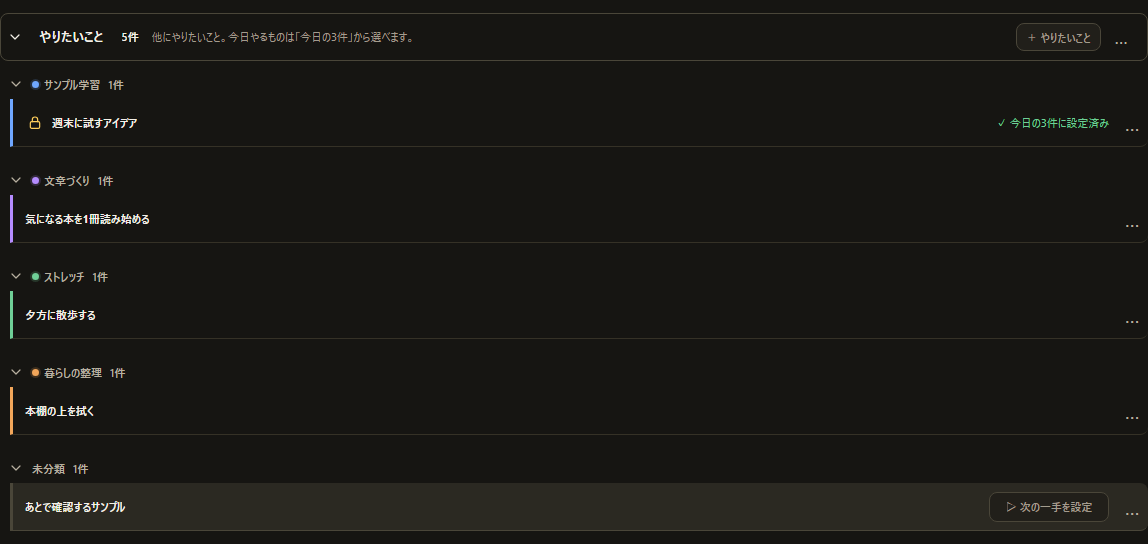
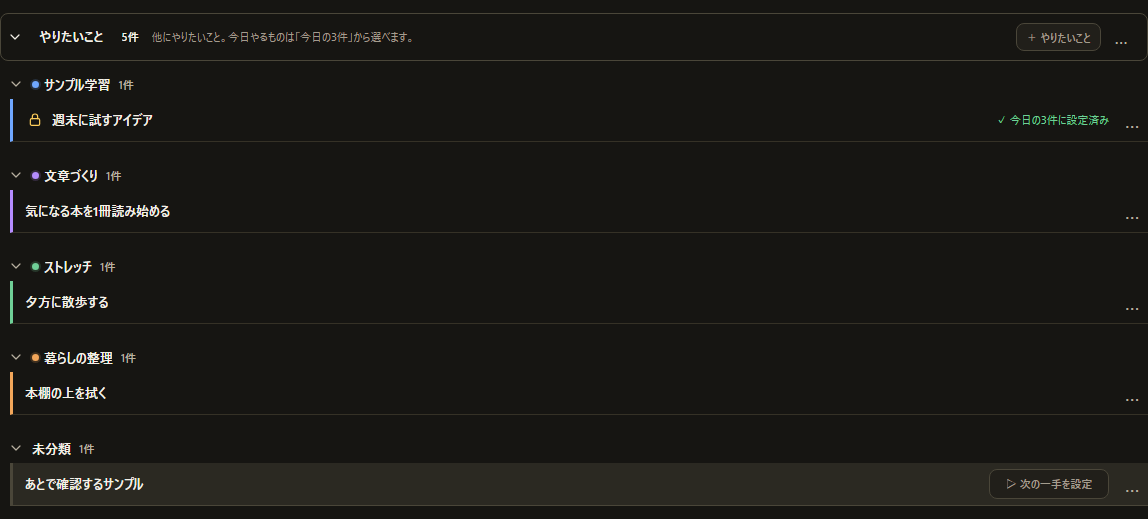
fix: やりたいことの見出しと項目の大きさをそろえる（P97-10追記）
- 見出しの名前を body・600・--text、件数を meta・--muted に

- 本文を body・500、行の最小40px・角0に

- 標準・大・特大のテストと基準画像、仕様書、報告を更新

diff --git a/tests/visual/phase97-wishlist-layout.spec.ts b/tests/visual/phase97-wishlist-layout.spec.ts
@@ -12,7 +12,12 @@ type Control = {
   currentConfig: () => AppConfig;
 };
 
-async function prepare(page: Page, fixture = createFullTodayFixture()) {
+async function prepare(
+  page: Page,
+  fixture = createFullTodayFixture(),
+  size: "standard" | "large" | "xlarge" = "standard",
+) {
+  fixture.config.settings.mainDisplaySize = size;
   await page.clock.install({ time: new Date(FIXTURE_NOW).getTime() });
   await page.setViewportSize({ width: 1440, height: 900 });
   await installTauriMock(page, fixture, "main");
@@ -95,11 +100,48 @@ test("the wishlist section shows the new hierarchy and color lines", async ({ pa
 
   const learningItem = page.locator('[data-inbox-id="sample-weekend"]');
   await expect(learningItem).toHaveCSS("border-left-color", "rgb(112, 167, 255)");
-  await expect(learningItem.locator(".inboxItemText")).toHaveCSS("font-weight", "650");
+  await expect(learningItem).toHaveCSS("border-radius", "0px");
+  await expect(learningItem).toHaveCSS("min-height", "40px");
+  await expect(learningItem.locator(".inboxItemText")).toHaveCSS("font-weight", "500");
 
   const unassignedItem = page.locator('[data-inbox-id="sample-later"]');
   await expect(unassignedItem).toHaveCSS("border-left-color", "rgb(74, 70, 57)");
 });
+
+for (const size of ["standard", "large", "xlarge"] as const) {
+  test(`header names and item text share the body size (${size})`, async ({ page }) => {
+    await prepare(page, createFullTodayFixture(), size);
+    const headerName = page.locator(
+      '[data-wishlist-group="project:sample-learning"] .wishlistGroupHeader .projectIdentityName',
+    );
+    const unassignedName = page.locator(
+      '[data-wishlist-group="unassigned"] .wishlistGroupHeader > strong',
+    );
+    const itemText = page.locator('[data-inbox-id="sample-weekend"] .inboxItemText');
+    const headerRow = page.locator('[data-inbox-id="sample-weekend"]');
+
+    const metrics = async (locator: typeof headerName) =>
+      locator.evaluate((element) => {
+        const style = getComputedStyle(element);
+        return {
+          fontSize: style.fontSize,
+          fontWeight: Number(style.fontWeight),
+          color: style.color,
+        };
+      });
+    const header = await metrics(headerName);
+    const unassigned = await metrics(unassignedName);
+    const item = await metrics(itemText);
+
+    expect(header.fontSize, size).toBe(item.fontSize);
+    expect(unassigned.fontSize, size).toBe(header.fontSize);
+    expect(unassigned.fontWeight, size).toBe(header.fontWeight);
+    expect(unassigned.color, size).toBe(header.color);
+    expect(header.fontWeight, size).toBeGreaterThan(item.fontWeight);
+    await expect(headerRow).toHaveCSS("border-radius", "0px");
+    await expect(headerRow).toHaveCSS("min-height", "40px");
+  });
+}
 
 test("the wishlist section keeps the new layout", async ({ page }) => {
   await prepare(page);

diff --git a/src/styles.css b/src/styles.css
@@ -10541,7 +10541,7 @@ input[type="number"]::-webkit-inner-spin-button {
   border-radius: var(--radius);
   background: transparent;
   color: var(--muted);
-  font-size: var(--dashboard-font-meta);
+  font-size: var(--dashboard-font-body);
   font-weight: 600;
   text-align: left;
   cursor: grab;
@@ -10559,27 +10559,29 @@ input[type="number"]::-webkit-inner-spin-button {
 
 .wishlistGroupHeader .projectIdentity {
   min-width: 0;
-  color: var(--muted);
-  font-size: var(--dashboard-font-meta);
+  color: var(--text);
+  font-size: var(--dashboard-font-body);
   font-weight: 600;
 }
 
 .wishlistGroupHeader > strong {
-  color: var(--muted);
-  font-size: var(--dashboard-font-meta);
+  color: var(--text);
+  font-size: var(--dashboard-font-body);
   font-weight: 600;
 }
 
 .wishlistGroupHeader > span:last-child {
   flex: 0 0 auto;
+  color: var(--muted);
   font-size: var(--dashboard-font-meta);
 }
 
 .wishlistGroup .inboxRow.sourceListRow {
   grid-template-columns: minmax(0, 1fr) auto;
   gap: 8px;
+  min-height: 40px;
   border-left: 3px solid var(--project-color, var(--line));
-  border-radius: 0 var(--radius) var(--radius) 0;
+  border-radius: 0;
   padding-left: 12px;
 }
 
@@ -10592,8 +10594,8 @@ input[type="number"]::-webkit-inner-spin-button {
   align-items: center;
   gap: 5px;
   color: var(--text);
-  font-size: var(--dashboard-font-meta);
-  font-weight: 650;
+  font-size: var(--dashboard-font-body);
+  font-weight: 500;
 }
 
 .sourceLockBadge--wishlist {
@@ -12222,6 +12224,11 @@ button.mainActionButton:is(
 .mainScrollContent:is([data-main-display-size="large"], [data-main-display-size="xlarge"])
   :is(.todayRow, .nextStepRow.sourceListRow, .inboxRow.sourceListRow, .todayActivityRow) {
   min-height: var(--main-row-height);
+}
+
+.mainScrollContent:is([data-main-display-size="large"], [data-main-display-size="xlarge"])
+  .wishlistGroup .inboxRow.sourceListRow {
+  min-height: 40px;
 }
 
 .mainScrollContent:is([data-main-display-size="large"], [data-main-display-size="xlarge"])

diff --git a/docs/phase9.7/10-wishlist-layout.md b/docs/phase9.7/10-wishlist-layout.md
@@ -14,7 +14,7 @@
 | --- | --- |
 | `src/nextStepWishlist.ts` | `groupWishlistForDisplay()` を追加（「未分類」を最後に並べるだけ。`config.inbox` は変えない）。`reorderWishlistGroups()` で「未分類」をつかめないようにし、後ろへ落としても前に挿入する |
 | `src/App.tsx` | 表示に `groupWishlistForDisplay()` を使う。グループに `data-project-color` と `wishlistGroup--unassigned` を付与。未分類の見出しはドラッグを開始せず、クリックで開閉。未分類へのドロップは前に補正 |
-| `src/styles.css` | 見出しを最小30px・横線なし・`--muted`・600に。項目を10px字下げし、左に3pxのプロジェクト色線（未分類は `--line`）。本文を650に。グループ間を18pxに |
+| `src/styles.css` | 見出しを最小30px・横線なし、名前を `--dashboard-font-body`・600・`--text`、件数を `--dashboard-font-meta`・`--muted` に。項目を10px字下げし、左に3pxのプロジェクト色線（未分類は `--line`）。本文を `--dashboard-font-body`・500、行を40px・角0に。グループ間を18pxに |
 | `docs/spec/current-spec.md` | §12 の「やりたいこと」の見せ方、項目の左線、未分類の最後、グループ間の間隔、D&Dの扱いを更新 |
 | `tests/visual/phase97-wishlist-layout.spec.ts` | 表示順・未分類のD&D・見た目（色線・太さ・横線なし）・十字キーの順・画像の7件 |
 | `tests/visual/phase97-wishlist-layout.spec.ts-snapshots/phase97-wishlist-layout-win32.png` | 変更後の「やりたいこと」の節の基準画像（新規） |
@@ -37,8 +37,8 @@
 
 ### 1. 表のとおりに見た目が変わった。「未分類」が最後に出る
 
-- 見出し: `border-bottom` を外して最小30px、色を `--muted`、太さ600にした。折りたたみ矢印・色の点・名前・件数は残す。
-- 項目: `.inboxList` を10px字下げし、`.inboxRow` の左に3pxの `--project-color` の線を付けた。未分類は `--line`。本文は次の一手のカードと同じ650にした（太字はやめず、次の一手と並べて自然な太さにそろえた）。
+- 見出し: `border-bottom` を外して最小30px、行の色を `--muted` にした。名前（「未分類」も）は `--dashboard-font-body`・600・`--text`、件数は `--dashboard-font-meta`・`--muted` にした。折りたたみ矢印・色の点・名前・件数は残す。
+- 項目: `.inboxList` を10px字下げし、`.inboxRow` の左に3pxの `--project-color` の線を付けた。未分類は `--line`。本文は `--dashboard-font-body`・500 にした。行の最小の高さは40px、角の丸みは0にした。
 - 区切り: 同じグループ内は6pxの間隔と薄い下線、グループ間は18pxの間隔にして線を外した。
 - 「未分類」: `groupWishlistForDisplay()` で常に最後。`config.inbox` の並びは表示では変えない。
 - 状態・操作（「次の一手に設定」「✓ 次の一手に設定済み」「今日の3件」、ロック、「…」）は今までどおり右端。
@@ -63,7 +63,8 @@
 
 - 表示順: `groupWishlistForDisplay()` が未分類を最後にし、`config.inbox` を変えないこと。
 - グループD&D: 未分類をドラッグしても `config` が変わらないこと。未分類より後ろへ落としても、表示で未分類が最後のままであること。
-- 見た目: 見出しの下線が0px、色が `rgb(184, 176, 160)`、太さ600。プロジェクト項目の左線が `rgb(112, 167, 255)`（青）、未分類が `rgb(74, 70, 57)`（`--line`）、本文が650。
+- 見た目: 見出しの下線が0px、名前の色が `rgb(244, 240, 232)`、太さ600。プロジェクト項目の左線が `rgb(112, 167, 255)`（青）、未分類が `rgb(74, 70, 57)`（`--line`）、本文が500。行の `border-radius` が0px、`min-height` が40px。
+- 表示サイズ: 「標準・大・特大」のそれぞれで、見出しの名前と未分類の名前の font-size・font-weight・color が同じで、見出しの font-weight が本文より大きいことを確認した。
 - 画面: 未分類の見出しからドラッグを始めてもゴーストが出ないこと。学習グループを未分類の後ろへ落とすと、表示で未分類が最後のままであること。
 - 十字キー: 未分類の見出しにフォーカスし、Shift+Tab で前のグループへ移り、Tab で未分類へ戻ることを確認した。未分類より後ろにグループが無いことの確認になる。
 - 既存: `phase82-nextstep-wishlist.spec.ts` の18件がすべて成功。DOMのグループ順の期待値だけを表示順に更新した。
@@ -76,7 +77,7 @@
 | `npm run public:check` | 成功（3,652ファイル、0 blockers） |
 | `npm run lint` | 成功（0エラー、0警告） |
 | `npm run build` | 成功 |
-| `npm run test:visual` | 648件成功（2.3分） |
+| `npm run test:visual` | 651件成功（2.4分） |
 | `cargo fmt --check` | 成功 |
 | `cargo check` | 成功 |
 | `cargo clippy --all-targets -- -D warnings` | 成功 |
@@ -87,7 +88,7 @@
 
 | 画像 | 理由 |
 | --- | --- |
-| `tests/visual/phase97-wishlist-layout.spec.ts-snapshots/phase97-wishlist-layout-win32.png` | 「やりたいこと」の節の見た目を変えたため。新規（1,148×544、32,353バイト） |
+| `tests/visual/phase97-wishlist-layout.spec.ts-snapshots/phase97-wishlist-layout-win32.png` | 「やりたいこと」の節の見た目を変えたため。新規（1,148×519、35,259バイト） |
 
 ほかの画面の基準画像は変えていない。`maxDiffPixels: 12` は、CI のわずかな描画差を吸収するため（P97 pre-release と同じ扱い）。
 
@@ -96,7 +97,7 @@
 - 「未分類」を最後にするのは表示だけ。`groupWishlist()` は保存順のまま残し、表示用の `groupWishlistForDisplay()` を別にした。グループD&Dの保存処理は保存順の関数を使うので、表示の並べ替えで `config.inbox` は変わらない。
 - 未分類をドラッグの対象にしないため、未分類の見出しは `pointerdown` でドラッグを開始しない。マウスのクリックで開閉できるように、未分類だけ `click` でも開閉する。
 - 未分類より後ろへ落としたときは、`reorderWishlistGroups()` と `moveWishlistGroup()` の両方で「前に挿入」に補正した。
-- 項目の本文は、次の一手のカードの本文と同じ650にした。見出しは600にして、項目より一段弱くした。
+- 項目の本文は `--dashboard-font-body`・500、見出しの名前は `--dashboard-font-body`・600にして、見出しの方を太くした。
 - プロジェクト色は `resolveProjectColorId(project.id, project.colorId)` で決め、色を指定していないプロジェクトも次の一手のカードと同じ自動色の線になるようにした。
 - グループ間の間隔は18px、グループ内の項目は6pxの間隔と薄い下線にした。1件だけのグループが並んでも、見出しと項目のまとまりが分かる。
 - `phase82-nextstep-wishlist.spec.ts` のDOM順の期待値は、表示順が変わったための更新。折りたたみ・D&D・メニューなどの期待値は変えていない。
@@ -105,3 +106,43 @@
 
 - P97-11 の実機確認で、P97-01 のテスト用の起動を使い、やりたいことが何件かある状態（P97-09 の取り込みで足してもよい）で、見出しと項目のまとまり、未分類が最後、折りたたみ・D&D・メニュー・「次の一手に設定」、表示サイズ「特大」と最小幅を確かめる。
 - プロジェクトの色の線は、次の一手のカードの3px線と同じ太さにした。実機で並べて強すぎる場合は、2pxに落とすことを検討する。
+
+## 追記（2026-11-08）— 見出しと項目の大きさをそろえる
+
+オーナー判断 2026-11-08。P97-10 のマージ後に `main`（`b4142cf`）から `fix/p97-10-wishlist-size` を作り、やりたいことの節の中だけを直した。次の一手の一覧などは変えていない。
+
+### 直したこと
+
+- グループ見出しのプロジェクト名（`ProjectIdentity` の `.projectIdentityName`）と「未分類」の `<strong>` を、`--dashboard-font-body`・600・`--text` にそろえた。件数（「1件」）は今までどおり `--dashboard-font-meta`・`--muted`。
+- 項目の本文を `--dashboard-font-body`・500 にした。見出しの600より弱く見える。
+- 項目の行の `min-height` を40pxにした。「次の一手に設定」と「…」が入り、表示サイズ「大・特大」でもこの行だけ40pxの最小を保つ。
+- 項目の行の `border-radius` を0にした。左の色線と下の線だけの四角い形にした。
+- キーボードの輪は、共通の `:focus-visible`（2px `--accent-strong`、offset 2px）のまま。行の角を四角にしたことで、輪が角で切れない。
+- 表示サイズ「標準・大・特大」で、見出しの名前（プロジェクトと未分類）の font-size・font-weight・color が同じで、本文と同じ font-size、見出しの font-weight が本文より大きいことを `toHaveCSS` / `getComputedStyle` で確認した。
+
+### 追加・更新したテスト
+
+- `tests/visual/phase97-wishlist-layout.spec.ts` に、表示サイズごとの「header names and item text share the body size (standard / large / xlarge)」を追加した。
+- 同じファイルの見た目のテストを、名前の色 `rgb(244, 240, 232)`、本文500、`border-radius: 0px`、`min-height: 40px` に更新した。
+- 基準画像 `phase97-wishlist-layout` を更新した（1,148×519、35,259バイト）。変更前の画像はそのまま（1,148×542、32,534バイト）。
+
+### 実行したゲート（追記分）
+
+| ゲート | 結果 |
+| --- | --- |
+| `npm run public:check` | 成功（3,652ファイル、0 blockers） |
+| `npm run lint` | 成功（0エラー、0警告） |
+| `npm run build` | 成功 |
+| `npm run test:visual` | 651件成功（2.4分） |
+| `cargo fmt --check` | 成功 |
+| `cargo check` | 成功 |
+| `cargo clippy --all-targets -- -D warnings` | 成功 |
+| `cargo test` | 157 unit + 1 capability = 158件成功 |
+| `git diff --check` | 成功 |
+
+### 判断メモ（追記）
+
+- 見出しの名前を `--text` にしたのは、`--muted` より一段明るい今ある文字の色が `--text` だけだったため。件数は `--muted` のままにして、名前と件数の強弱を付けた。
+- 見出しの font-weight 600 と本文の500で、同じ大きさでも見出しが強く見えるようにした。項目を400にすると細く見えすぎたため500にした。
+- 行の最小40pxは、表示サイズ「大・特大」の共通行の最小（53px・57px）より優先する。特大では中のボタンが大きくなるため、実際の高さは内容に合わせて40pxより高くなることがある。
+- 基準画像は「やりたいこと」の節だけを更新した。ほかの画面の基準画像は変えていない。

diff --git a/docs/spec/current-spec.md b/docs/spec/current-spec.md
@@ -479,7 +479,7 @@ Main Window
 - キャンセル、Escape、外側クリックは未保存入力を破棄して起点へフォーカスを戻す。保存失敗時は入力を保持し、ダイアログ内で再試行できる。
 - 項目名は今日の3件より少し抑えた濃度で可読性を保つ。
 - プロジェクトごとのグループをWishlist自身の保存順で並べ、次の一手のProject表示順とは同期しない。所属のない項目は同じ独立順の「未分類」にまとめる。各グループは独立して開閉状態、件数、ページ状態を持つ。
-- グループ見出しは横線のない低い行（最小30px）とし、折りたたみの矢印・色の点・名前・件数を残す。名前は項目の本文より小さいまま、項目の本文より一段弱い色（`--muted`）にする。項目の行は見出しより右へ字下げし、行の左にそのプロジェクトの色の3pxの線（`--project-color`）を付ける。「未分類」の項目は控えめな線の色（`--line`）にする。同じグループ内の項目は薄い線で区切り、グループとグループの間は線ではなく広めの間隔で分ける。
+- グループ見出しは横線のない低い行（最小30px）とし、折りたたみの矢印・色の点・名前・件数を残す。名前（「未分類」も）は項目の本文と同じ大きさ（`--dashboard-font-body`）・600・`--text`、件数は`--dashboard-font-meta`・`--muted`にする。項目の行は見出しより右へ字下げし、行の左にそのプロジェクトの色の3pxの線（`--project-color`）を付ける。「未分類」の項目は控えめな線の色（`--line`）にする。同じグループ内の項目は薄い線で区切り、グループとグループの間は線ではなく広めの間隔で分ける。
 - 「未分類」は表示上いつも最後に出す。`config.inbox` の並びは表示の並べ替えでは変えない。グループのD&Dで「未分類」はつかめず、ほかのグループを「未分類」より後ろへ落としても「未分類」の前に入る。十字キーで移る順も表示の順に従い、「未分類」は最後になる。
 - グループ見出しはD&Dで並べ替えられ、ゴーストと黄色挿入線を表示する。グループ順は含まれるWishlist項目のまとまりとして保存し、グループ内の項目順とProject表示順を変えない。Projectグループの右クリックから既存Project編集を開き、Project名・色の変更は同じProjectを参照する各表示へ反映する。
 - 項目のD&Dと上下移動は同じプロジェクトグループ内だけで手動順序を変更し、ゴーストと黄色挿入線を表示する。別グループへのdropでは所属Projectを変更しない。
@@ -493,7 +493,7 @@ Main Window
 - プロジェクト設定時は、次の一手と同じサイズで色と名称を表示する。Project名はsecondary colorかつfont-weight 650〜700、Task本文はprimary colorと既存weightを使って階層を分ける。
 - 各項目は次の一手と同じcompact rowとし、行動文と右端の操作メニューを配置する。D&Dできることを示す専用記号は表示しない。未設定は「プロジェクトなし」と表示する。
 - 両セクションの見出しは名称・件数・説明・右端操作の順とし、右端に黄色の追加ボタンと「…」メニューを置く。やりたいことの一覧は、見出しより右へ字下げした行にプロジェクト色の左線を表示する（P97-10）。
-- 次の一手・やりたいことの行は最小48px、上下余白5pxを基準にする。やりたいことの本文は次の一手のカードの本文と同じ太さ（650）にする。Today PickerのProject識別は本文と競合しないreadable muted metaとする。
+- 次の一手の行は最小48px、やりたいことの行は最小40px、上下余白5pxを基準にする。やりたいことの本文は`--dashboard-font-body`・500、見出しの名前は`--dashboard-font-body`・600にして、見出しの方を太くする。やりたいことの行は角の丸みを付けない（`border-radius: 0`）。Today PickerのProject識別は本文と競合しないreadable muted metaとする。
 - 行のホバーまたはキーボードフォーカス時に背景を強調する。次の一手は「編集」と右端の「…」操作を常時表示し、やりたいことはhover/focus時に右端操作を表示する。クリックで既存の右クリックメニューを開き、D&Dは開始しない。タッチ環境では操作を常時表示する。
 - 旧Builderの候補除外・登録元復帰D&Dは表示しない。既存の候補除外データは保存互換のため保持するが、Picker候補には適用しない。
 - 今日の3件への採用はPickerまたはWishlist項目のD&Dから行い、stable source identityの重複と3件上限を超えない。
